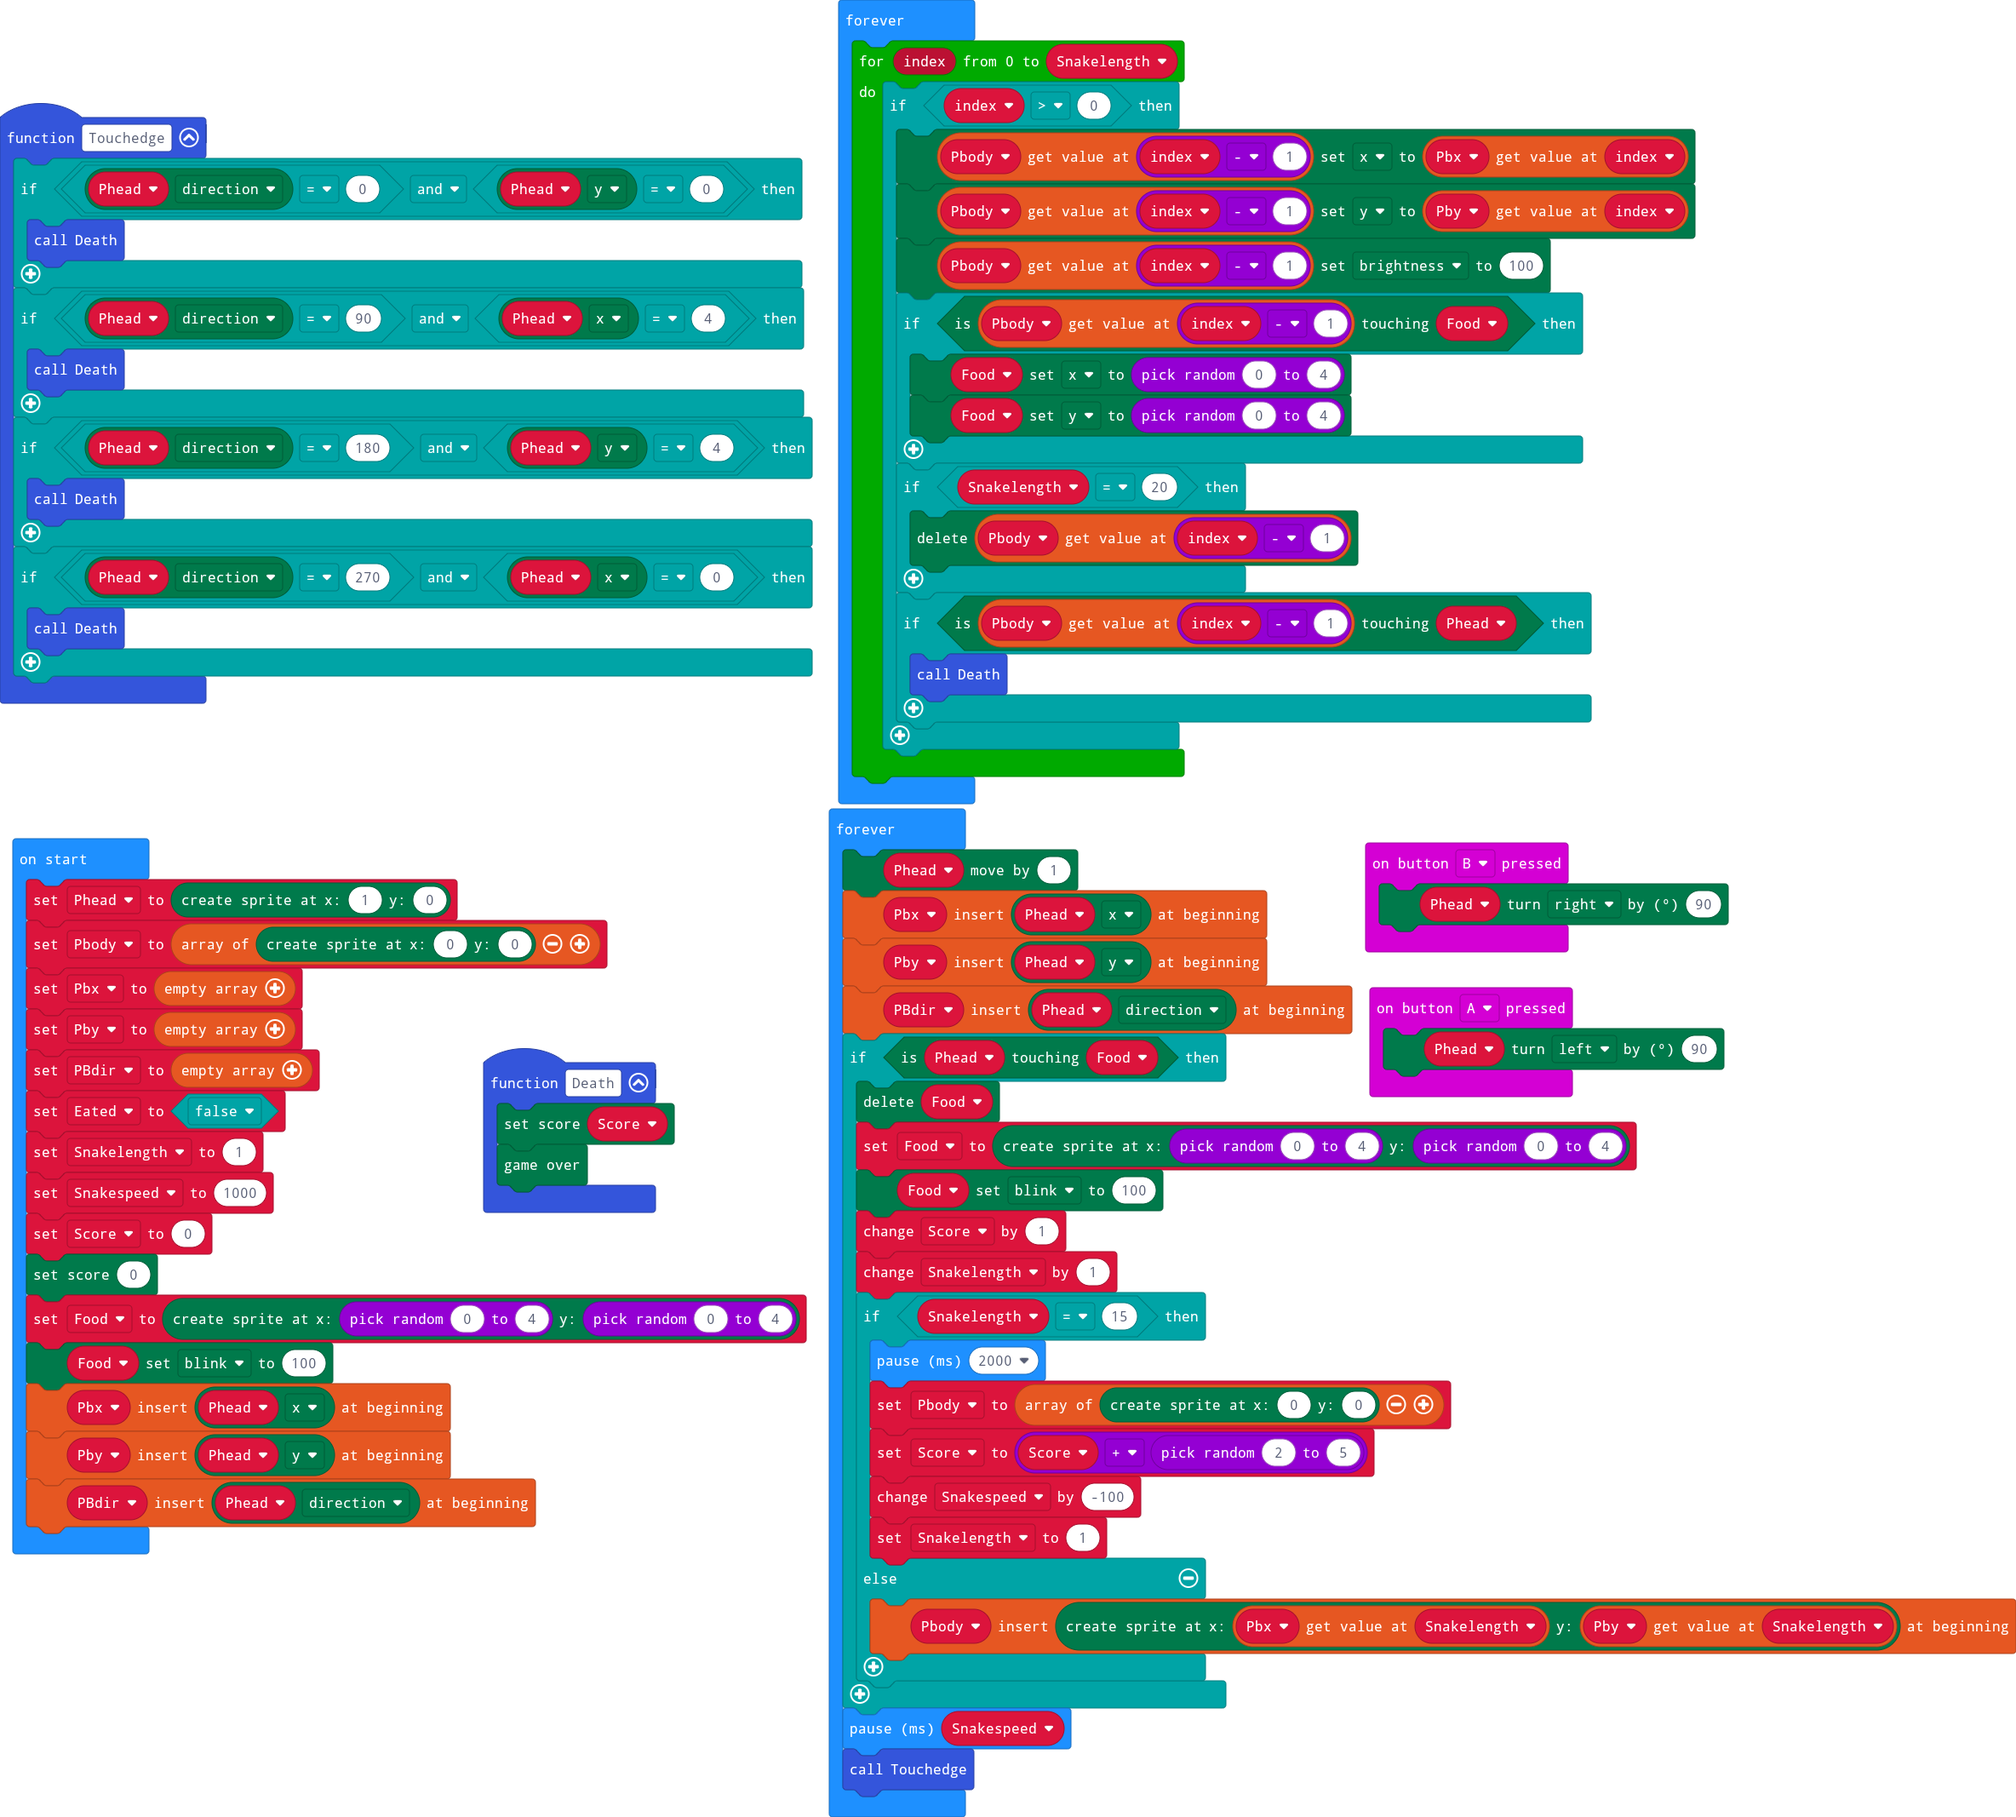
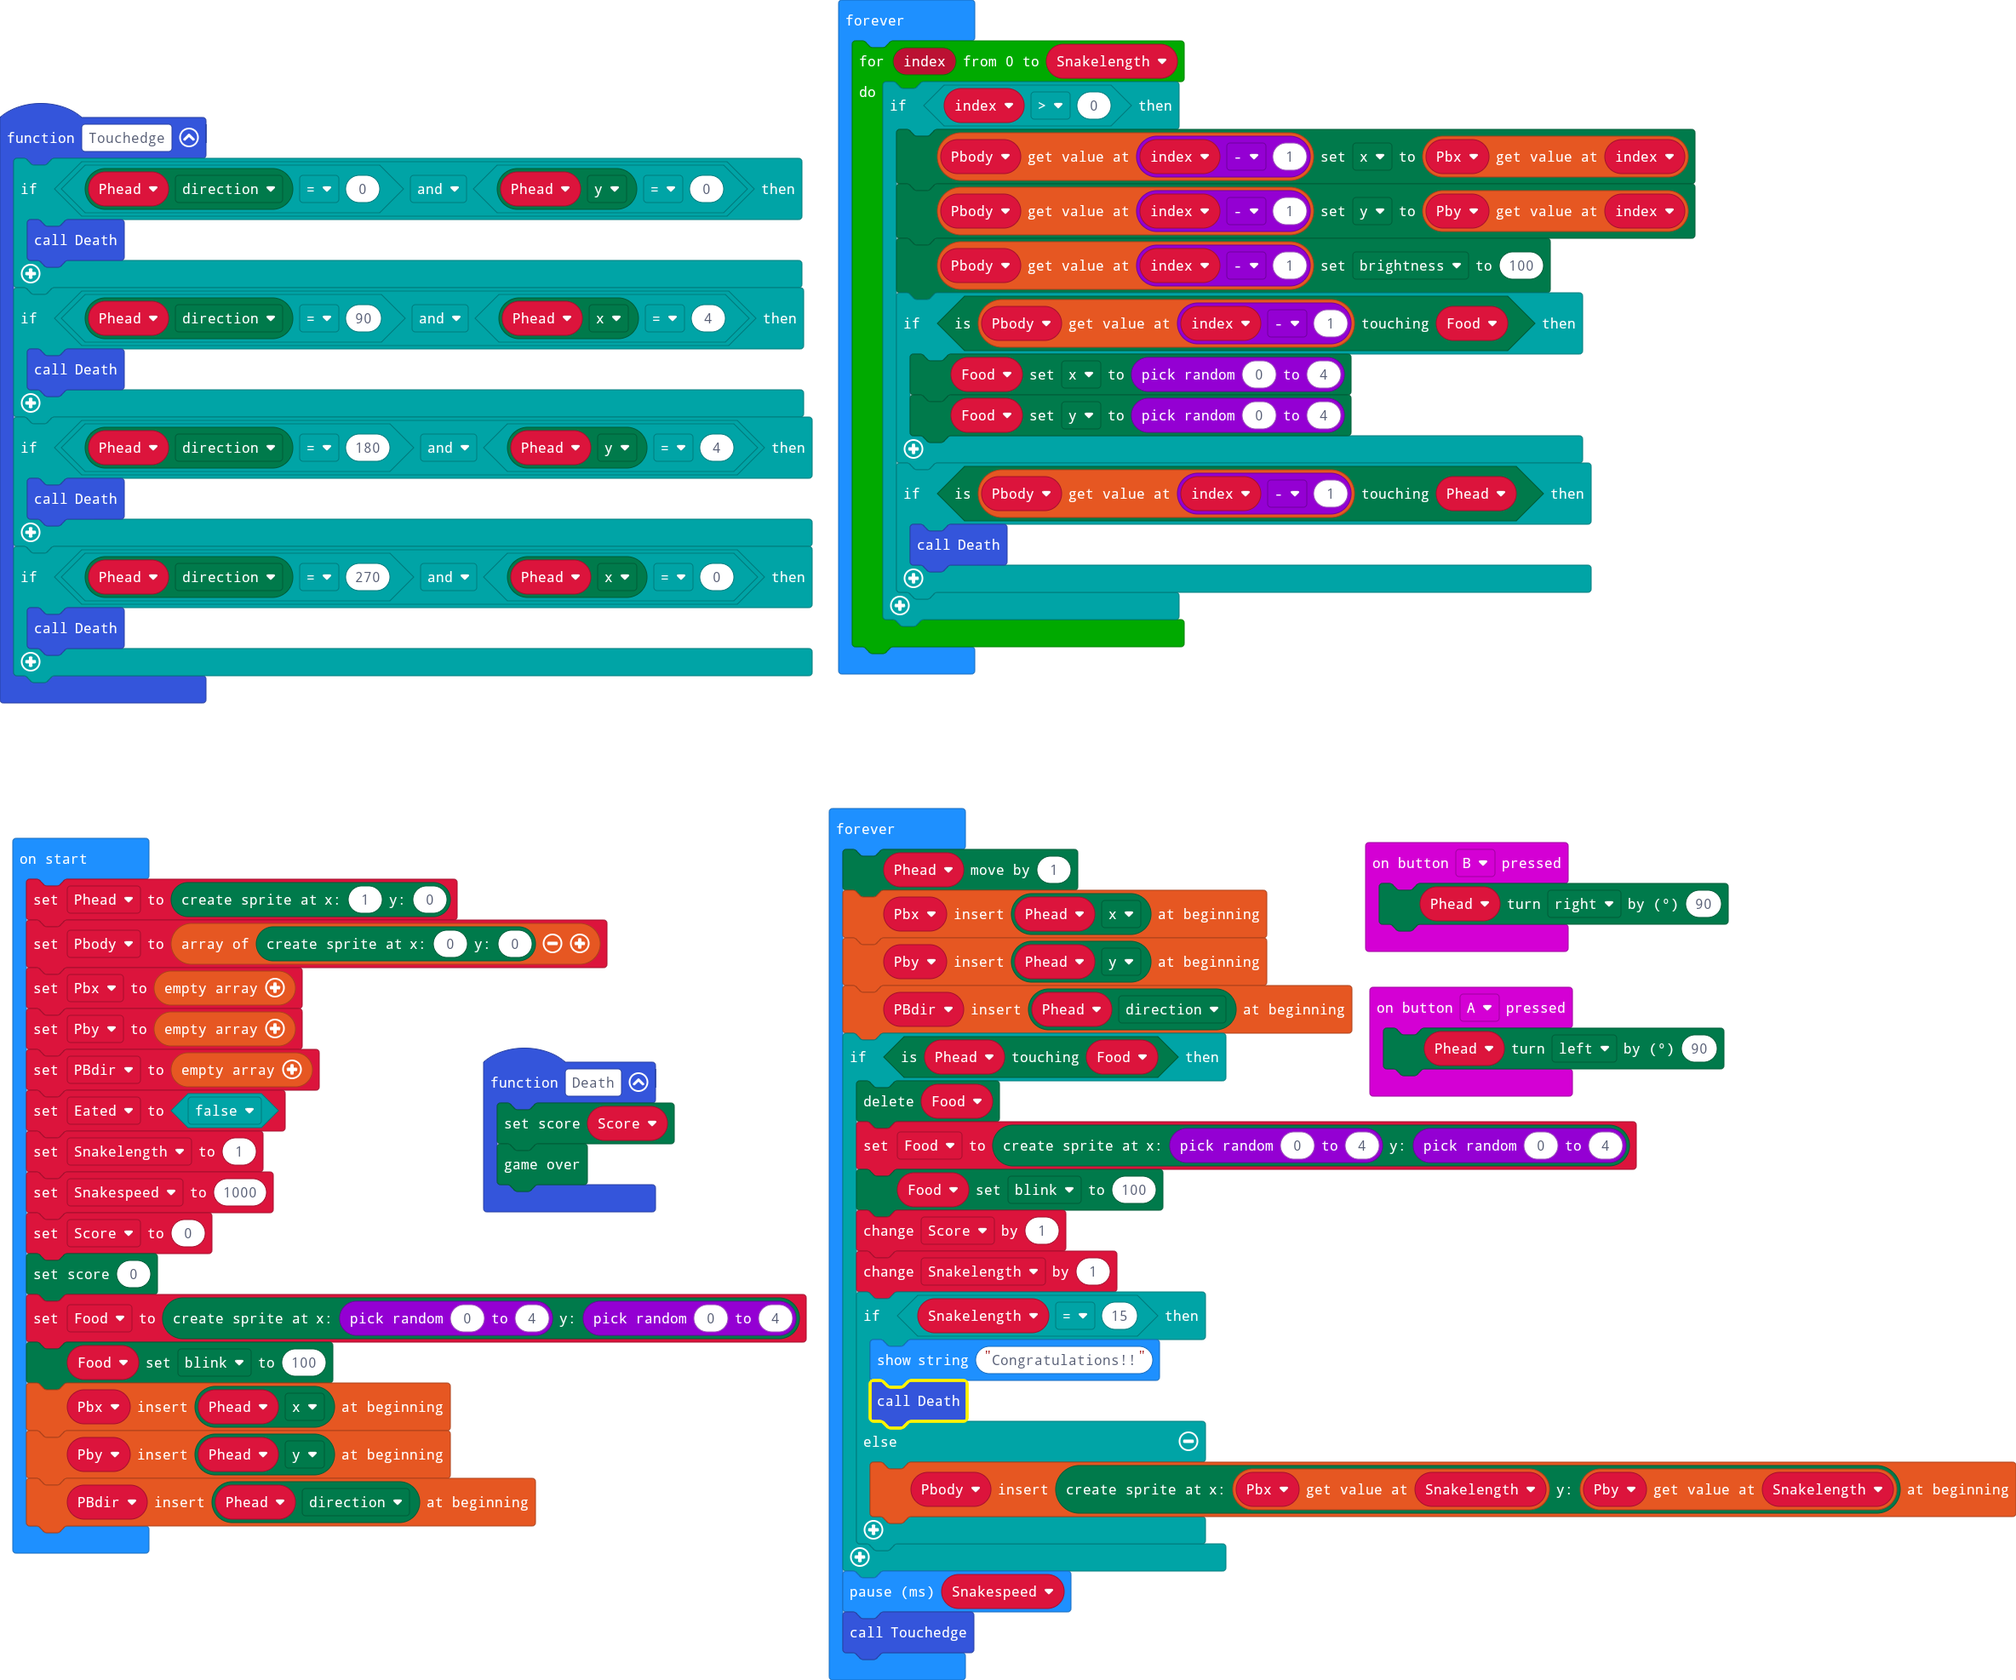
Update main.blocks, main.ts

diff --git a/main.ts b/main.ts
@@ -49,9 +49,6 @@ basic.forever(function () {
                 Food.set(LedSpriteProperty.X, randint(0, 4))
                 Food.set(LedSpriteProperty.Y, randint(0, 4))
             }
-            if (Snakelength == 20) {
-                Pbody[index - 1].delete()
-            }
             if (Pbody[index - 1].isTouching(Phead)) {
                 Death()
             }
@@ -70,11 +67,8 @@ basic.forever(function () {
         Score += 1
         Snakelength += 1
         if (Snakelength == 15) {
-            basic.pause(2000)
-            Pbody = [game.createSprite(0, 0)]
-            Score = Score + randint(2, 5)
-            Snakespeed += -100
-            Snakelength = 1
+            basic.showString("Congratulations!!")
+            Death()
         } else {
             Pbody.unshift(game.createSprite(Pbx[Snakelength], Pby[Snakelength]))
         }
